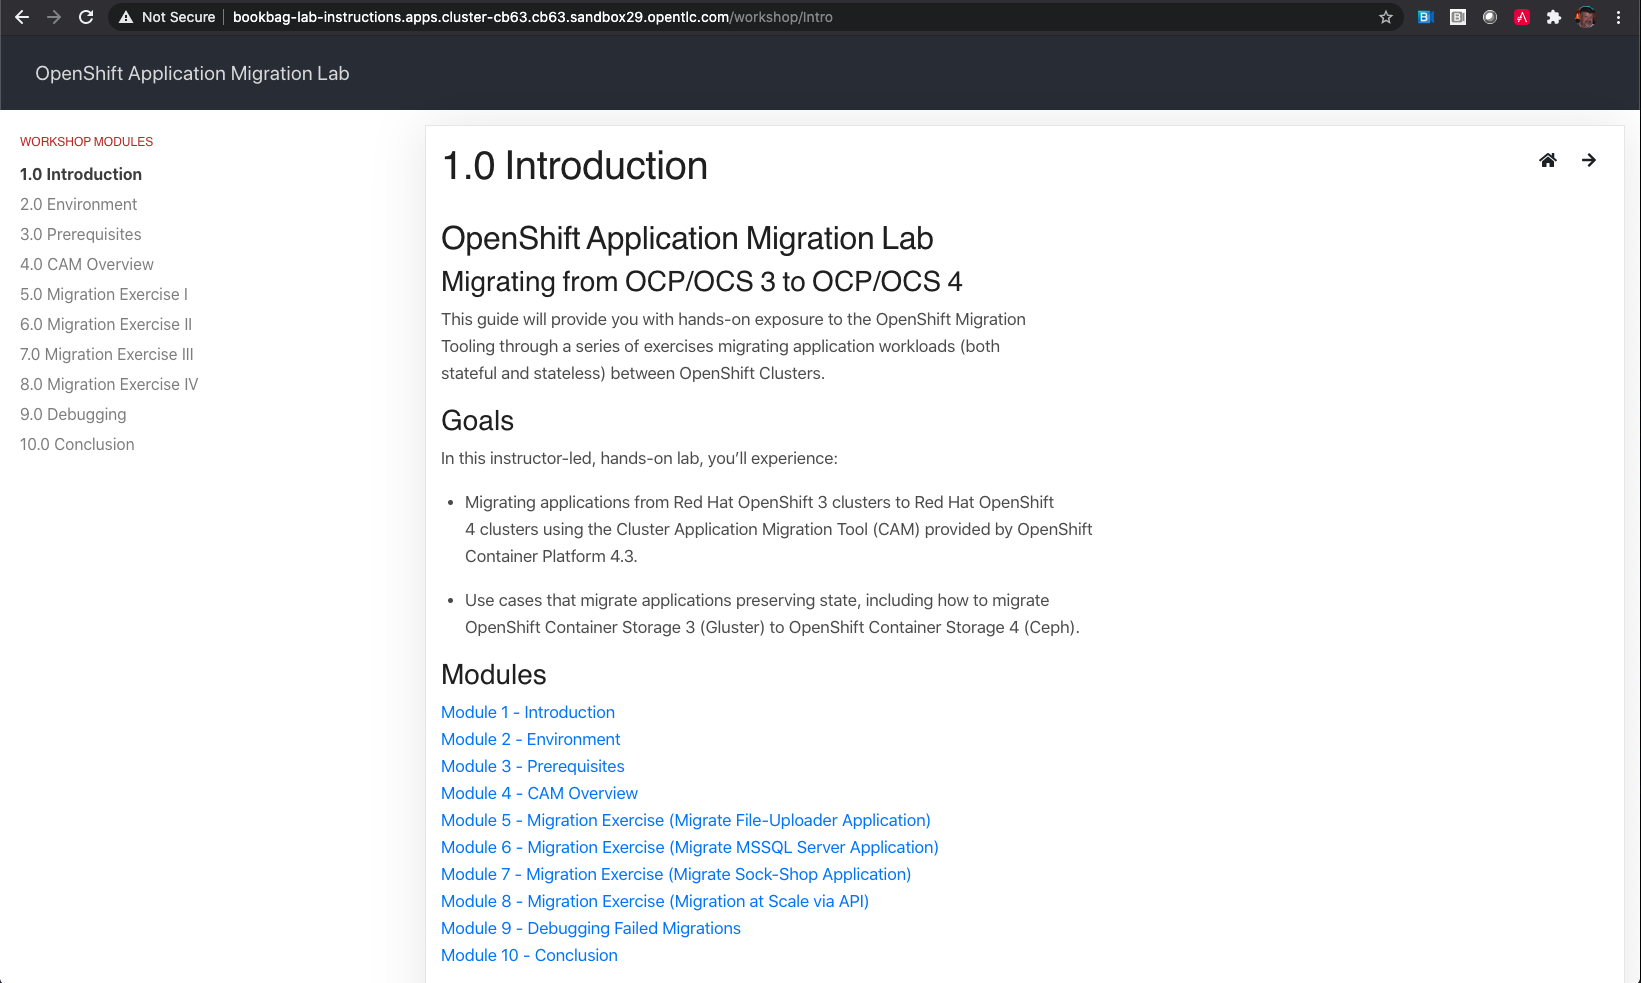
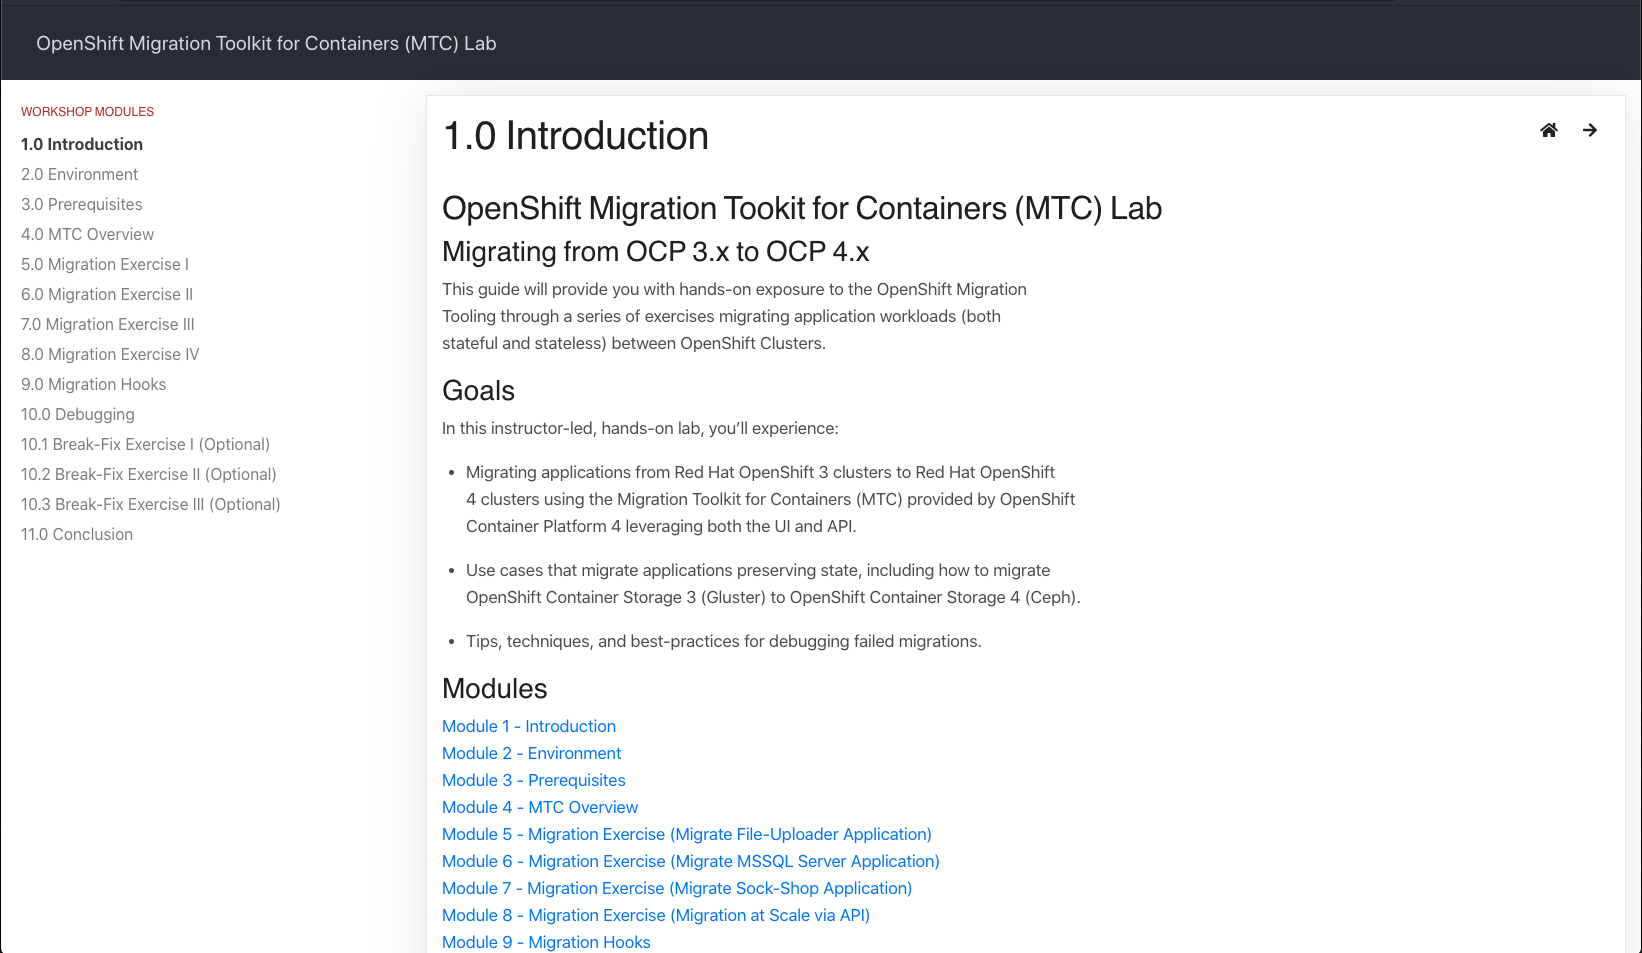
Lab Updates for MTC

Changed region(s): [[0.0, 0.0, 1.0, 1.0], [0.8391, 0.0, 0.9945, 0.0304]]

diff --git a/mtc/README.md b/mtc/README.md
@@ -1,4 +1,4 @@
-# OpenShift Cluster Application Migration Tool Lab
+# OpenShift Migration Tookit for Containers (MTC) Lab
 
 This guide will provide you with hands-on exposure to the new OpenShift Migration Tooling through a series of labs migrating application workloads (both stateful and stateless) between OpenShift Clusters.
 
@@ -8,8 +8,14 @@ Migrates application workloads from Cluster A to Cluster B (includes ui, control
 
 ## Goals
 
-* Migrate several application workloads (both stateful and stateless) from an OpenShift 3.11 cluster to an OpenShift 4.x cluster using the Cluster Application Migration Tool (CAM)
-* Utilize the Control Plane Migration Assistance Tool (CPMA) to generate a detailed report identifying areas of custom configuration that need to be considered as part of application migration planning.
+* Migrating applications from Red Hat OpenShift 3 clusters to Red Hat OpenShift
+4 clusters using the Migration Toolkit for Containers (MTC) provided by OpenShift
+Container Platform 4 leveraging both the UI and API.
+
+* Use cases that migrate applications preserving state, including how to migrate
+OpenShift Container Storage 3 (Gluster) to OpenShift Container Storage 4 (Ceph).
+
+* Tips, techniques, and best-practices for debugging failed migrations.
 
 ## Setup Steps
 
@@ -23,8 +29,8 @@ Step 3: Browse to Services >> Catalogs and open the “Workshops” catalog.
 
 Step 4: Order two services as follows:
 
-* Cluster Application Migration tool (CAM) - OCP3 Cluster
-* Cluster Application Migration tool (CAM) - OCP4 Cluster
+* Migration Toolkit for Containers - OCP3
+* Migration Toolkit for Containers - OCP4
 
 Step 5: Wait for both services to become available.  ```This will take ~45 min.```
 
